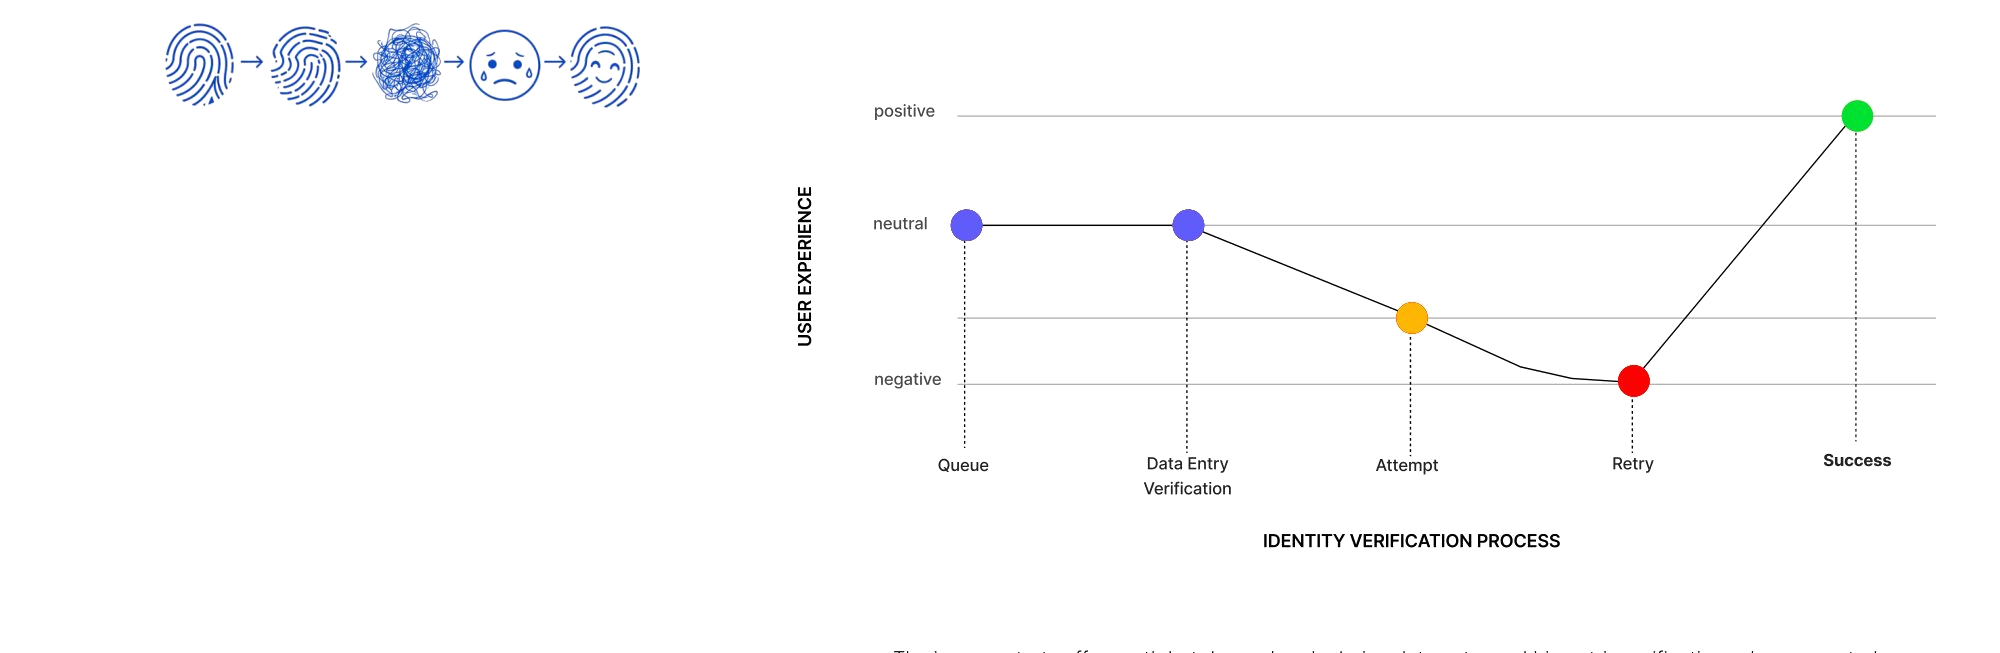
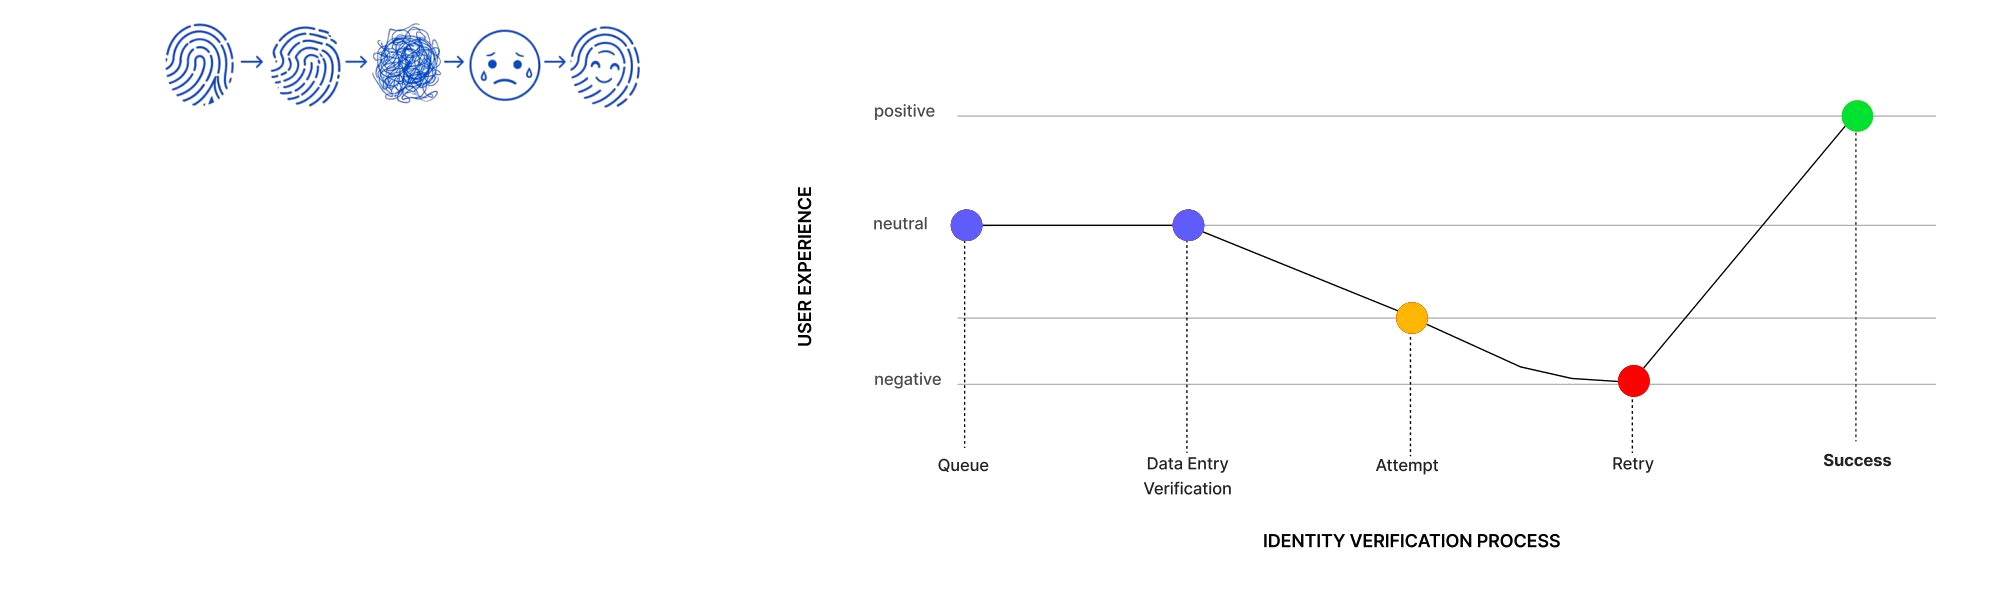
Label and space out flow and experience graph
Claude-Session: https://claude.ai/code/session_01QBZZib9KCCBedNvbZQFBnX

diff --git a/biometric.html b/biometric.html
@@ -491,6 +491,8 @@
     .terminal-row { grid-template-columns: 140px 1fr; }
   }
   .cs-image { background: transparent; border: none; }
+  .bio-label { font-family: 'Inter', sans-serif; font-size: 11px; font-weight: 600; letter-spacing: 1.6px; text-transform: uppercase; color: #2200ff; margin-top: 36px; }
+  .bio-label-sub { font-family: 'Inter', sans-serif; font-size: 13px; color: #78716c; margin-top: 6px; }
 </style>
 </head>
 <body>
@@ -598,10 +600,12 @@
       <p class="cs-section-heading">04. The journey</p>
       <h2 class="cs-section-title">Where the experience breaks.</h2>
       <div class="cs-body"><p>The current flow has five phases. It starts smooth, then drops sharply at data entry and biometric verification, where repeated failures and zero feedback cause the most frustration.</p></div>
-      <div class="cs-image"><img src="assets/bio/flow.png" alt="Current life certificate submission flow"></div>
-      <p class="cs-image-caption">Current life certificate submission flow</p>
-      <div class="cs-image"><img src="assets/bio/journey.png" alt="User experience journey graph"></div>
-      <p class="cs-image-caption">Experience dips at data entry, attempt and retry</p>
+      <p class="bio-label">A · The submission flow</p>
+      <p class="bio-label-sub">Every step a pensioner goes through to submit a life certificate today.</p>
+      <div class="cs-image" style="margin-top:12px"><img src="assets/bio/flow.png" alt="Current life certificate submission flow"></div>
+      <p class="bio-label" style="margin-top:88px;padding-top:40px;border-top:1px solid rgba(0,0,0,.08)">B · The experience along the way</p>
+      <p class="bio-label-sub">How the pensioner feels at each stage of identity verification.</p>
+      <div class="cs-image" style="margin-top:12px"><img src="assets/bio/journey.png" alt="User experience journey graph"></div>
       <div class="cs-callout">"The problem wasn't failure. It was not knowing why."</div>
     </section>
 
